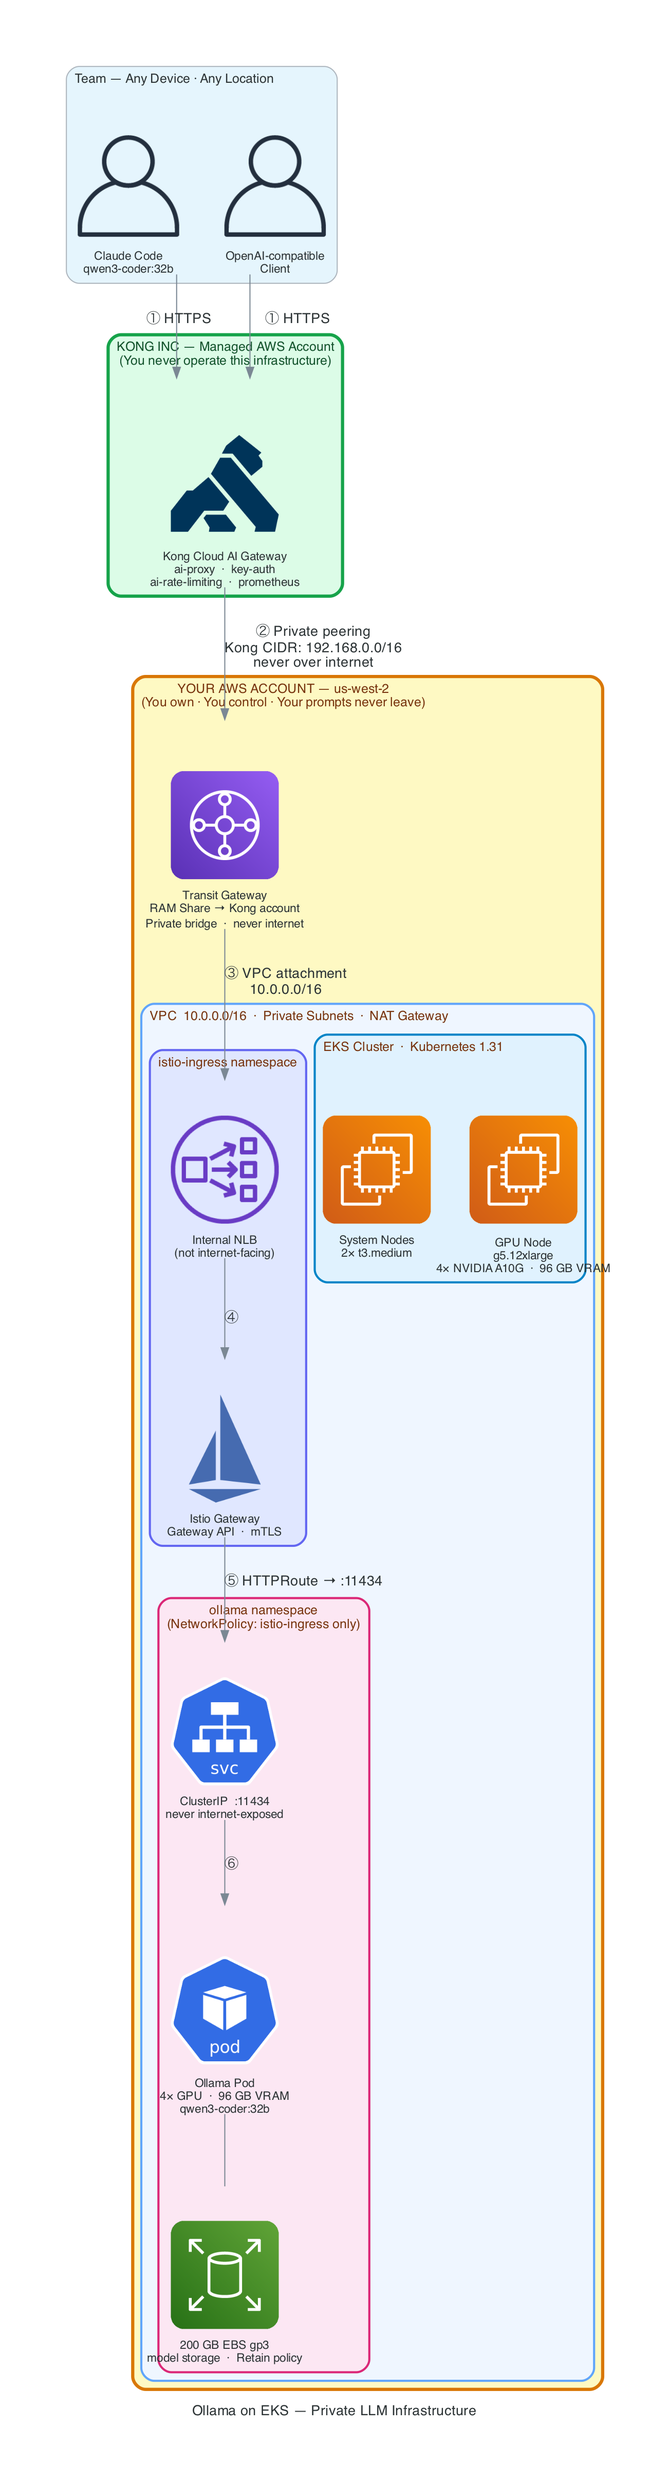
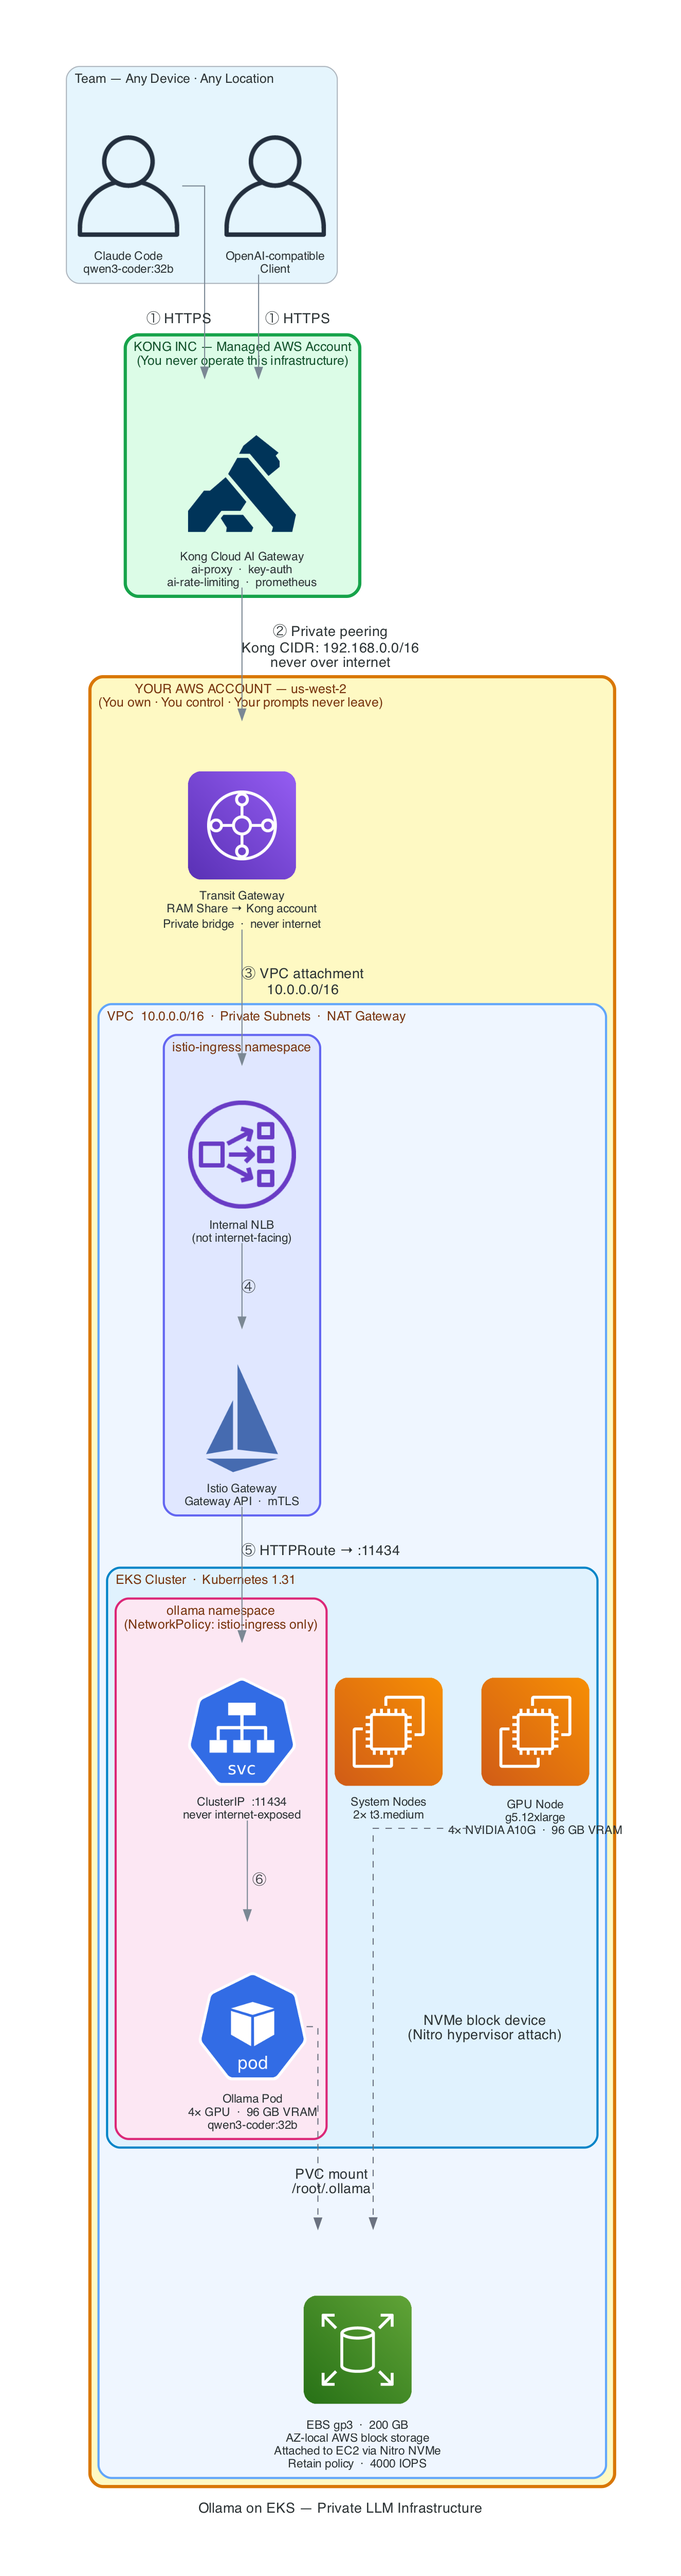
Fix architecture diagram: EBS outside K8s namespace at AWS VPC level
EBS gp3 is an AWS-native block storage service, not a K8s resource.
It attaches to the EC2 GPU node at the Nitro hypervisor level as a
virtual NVMe block device — not via PrivateLink or any network socket.
kubelet then mounts the device into the Ollama pod as /root/.ollama.

- Move EBS node out of ollama namespace into VPC scope
- Replace undirected pod-vol edge with two labelled dashed edges:
    gpu_node → vol  "NVMe block device (Nitro hypervisor attach)"
    pod      → vol  "PVC mount /root/.ollama"
- Add comment in code explaining why it is not PrivateLink
- Regenerate docs/architecture.png

Changed region(s): [[0.0922, 0.0311, 0.9217, 0.9961], [0.6144, 0.7782, 0.7988, 0.8093]]

diff --git a/generate-diagram.py b/generate-diagram.py
@@ -119,17 +119,27 @@ with Diagram(
                 sys_nodes = EC2("System Nodes\n2× t3.medium")
                 gpu_node  = EC2("GPU Node\ng5.12xlarge\n4× NVIDIA A10G  ·  96 GB VRAM")
 
-            with Cluster(
-                "ollama namespace\n(NetworkPolicy: istio-ingress only)",
-                graph_attr={
-                    "bgcolor": "#fce7f3",
-                    "pencolor": "#db2777",
-                    "penwidth": "2",
-                },
-            ):
-                svc = Svc("ClusterIP  :11434\nnever internet-exposed")
-                pod = Pod("Ollama Pod\n4× GPU  ·  96 GB VRAM\nqwen3-coder:32b")
-                vol = EBS("200 GB EBS gp3\nmodel storage  ·  Retain policy")
+                with Cluster(
+                    "ollama namespace\n(NetworkPolicy: istio-ingress only)",
+                    graph_attr={
+                        "bgcolor": "#fce7f3",
+                        "pencolor": "#db2777",
+                        "penwidth": "2",
+                    },
+                ):
+                    svc = Svc("ClusterIP  :11434\nnever internet-exposed")
+                    pod = Pod("Ollama Pod\n4× GPU  ·  96 GB VRAM\nqwen3-coder:32b")
+
+            # EBS is an AWS-native service — NOT inside EKS or the K8s namespace.
+            # The EBS CSI Driver calls AWS APIs to attach the volume directly to the
+            # EC2 GPU node as a virtual NVMe block device (Nitro hypervisor-level).
+            # kubelet then mounts it into the pod — no network socket involved.
+            vol = EBS(
+                "EBS gp3  ·  200 GB\n"
+                "AZ-local AWS block storage\n"
+                "Attached to EC2 via Nitro NVMe\n"
+                "Retain policy  ·  4000 IOPS"
+            )
 
     # ── Traffic flow — numbered steps ─────────────────────────────────────────
     [claude_code, api_client] >> Edge(label="① HTTPS") >> kong_gw
@@ -146,4 +156,17 @@ with Diagram(
 
     svc >> Edge(label="⑥") >> pod
 
-    pod - vol
+    # EBS attaches to the EC2 GPU node at the hypervisor level (Nitro NVMe).
+    # kubelet on that node mounts it into the Ollama pod as /root/.ollama.
+    # This is NOT PrivateLink — it is a block device, not a network connection.
+    gpu_node >> Edge(
+        label="NVMe block device\n(Nitro hypervisor attach)",
+        style="dashed",
+        color="#6b7280",
+    ) >> vol
+
+    pod >> Edge(
+        label="PVC mount\n/root/.ollama",
+        style="dashed",
+        color="#6b7280",
+    ) >> vol
